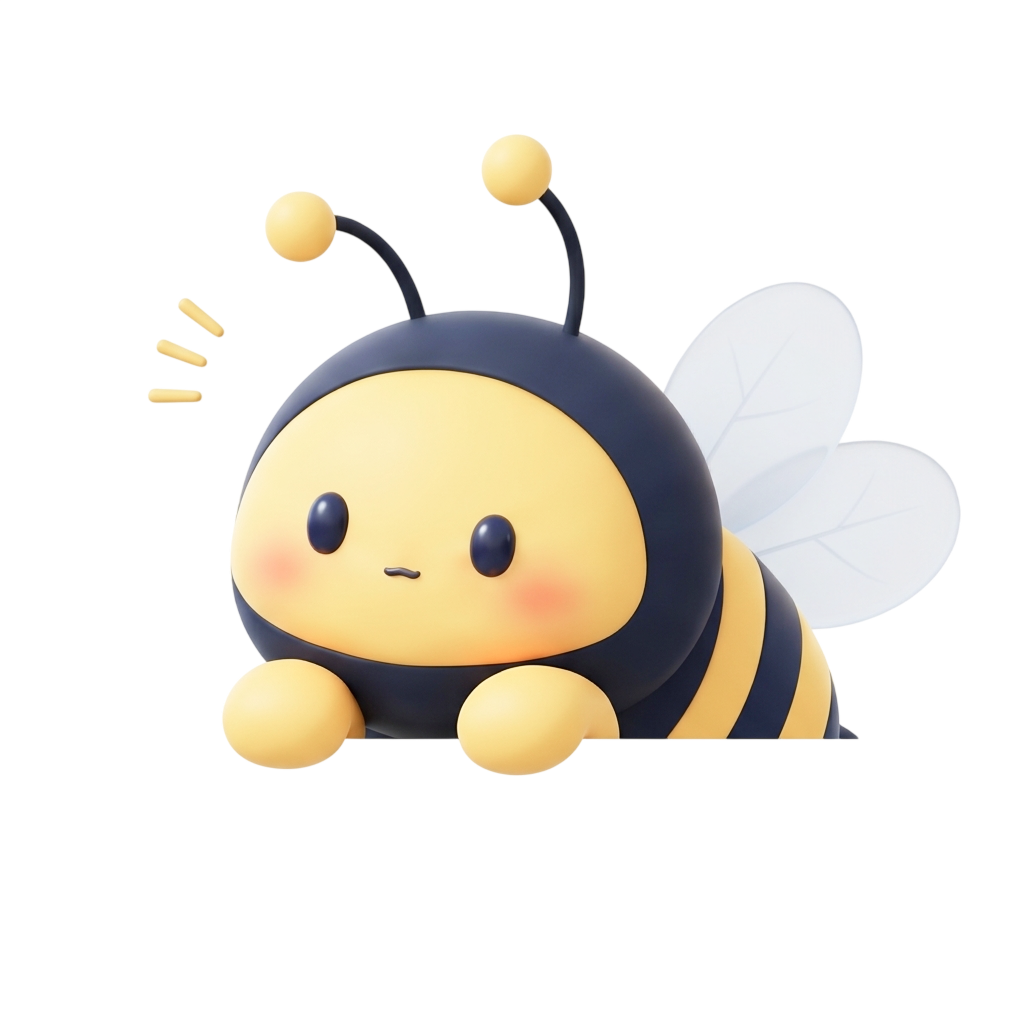
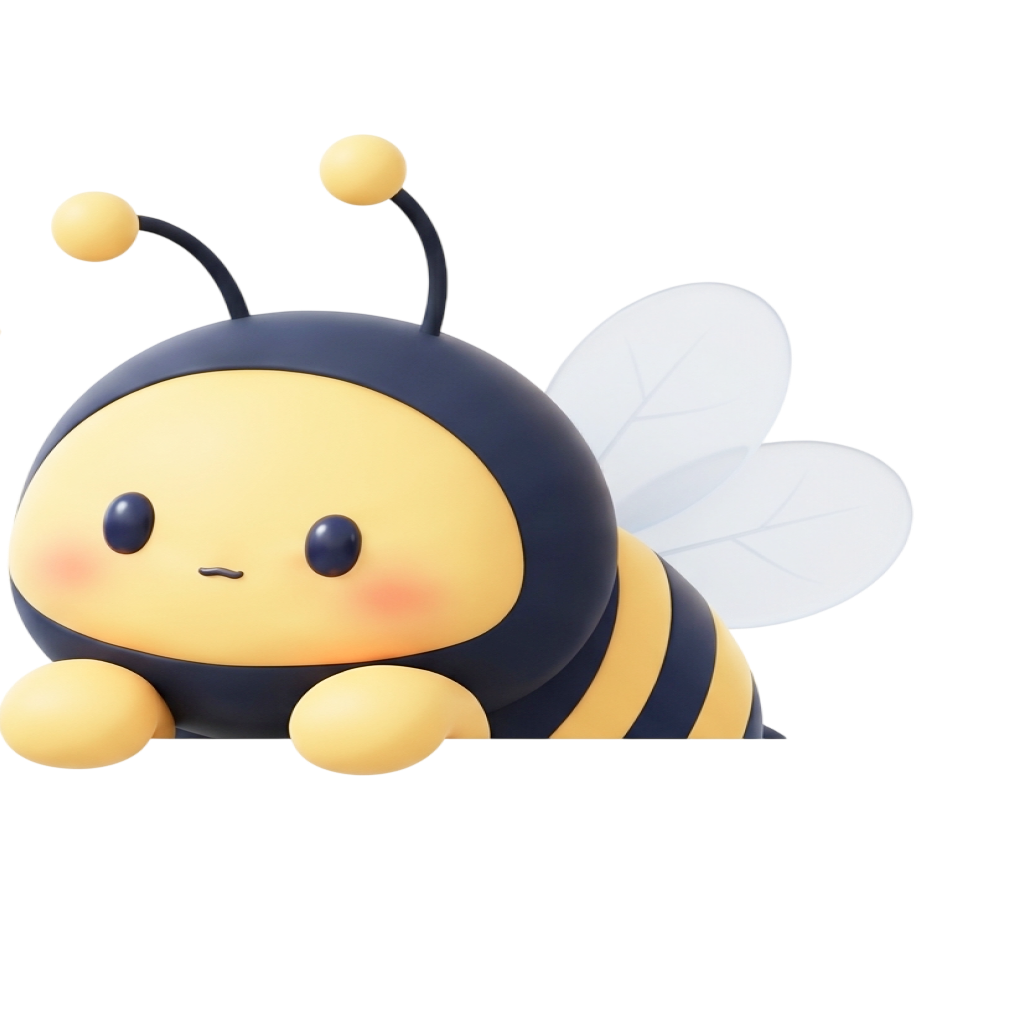
배너 수정

diff --git a/app/HomeBanner.module.css b/app/HomeBanner.module.css
@@ -1,52 +1,54 @@
-.banner{position:relative;isolation:isolate;overflow:hidden;background:linear-gradient(110deg,#1d3452,#203754 65%,#1b304c);color:#fff;border-radius:0;width:100%;margin:0;}
+.banner {
+  position:relative;
+  isolation:isolate;
+  height:333px;
+  overflow:hidden;
+  color:#fff;
+  background:linear-gradient(151.83deg,#172944 10.317%,#1e3556 53.968%,#30496d 89.683%);
+}
 .banner::before {
-  content: "";
-  position: absolute;
-  z-index: -1;
-  inset: auto -6% -18px;
-  height: clamp(155px, 25vw, 335px);
-  background: url("/images/home-banner-waves.png") center bottom / 100% 100% no-repeat;
-  opacity: .54;
-  pointer-events: none;
+  content:"";
+  position:absolute;
+  inset:0;
+  z-index:-1;
+  background:url("/images/home-banner-waves.svg") center / cover no-repeat;
 }
-.inner{max-width:1480px;margin:auto;padding:30px clamp(20px,2.2vw,32px) 32px;}
-.eyebrow{display:flex;align-items:center;gap:18px;font-size:15px;font-weight:600;}
-.eyebrow i{height:1px;background:#ffffff40;flex:1;}
-.eyebrow>span:last-child{color:#a5b3c6;}
-.content{display:grid;grid-template-columns:minmax(0,1.45fr) minmax(0,1.05fr) minmax(0,1fr);gap:38px;align-items:center;margin-top:30px;}
-.copy h1{margin:0;font-size:clamp(32px,3.2vw,46px);font-weight:700;line-height:1.2;letter-spacing:-1.4px;color:#fff;}
-.copy em{font-style:normal;color:#f6d98d;}
-.copy p{margin:14px 0 24px;font-size:19px;color:#bdcadd;letter-spacing:-.6px;}
-.cta{display:inline-flex;align-items:center;justify-content:center;gap:24px;padding:14px 30px;border-radius:40px;background:linear-gradient(110deg,#fff0bd,#ffe6a5);color:#111a28;font-size:18px;font-weight:700;min-height:50px;}
-.record{display:block;min-width:0;border:1px solid #94a6bd75;border-radius:22px;background:linear-gradient(120deg,#ffffff12,#ffffff05);box-shadow:inset 0 1px 1px #ffffff15;padding:22px 30px;color:#fff;}
-.record h2{display:flex;align-items:center;gap:12px;margin:0;font-size:21px;font-weight:600;}
-.count{display:flex;align-items:baseline;gap:5px;min-height:85px;margin-top:10px;}
-.count strong{font-size:64px;line-height:1.25;letter-spacing:-1px;font-variant-numeric:tabular-nums;}
-.count>span{font-size:30px;color:#b9c6d9;}
-.count .pending{font-size:24px;align-self:center;}
-.record small{display:block;font-size:11px;color:#b9c6d9;margin-bottom:10px;}
-.recordFooter{display:flex;justify-content:space-between;align-items:center;gap:12px;border-top:1px solid #ffffff40;padding-top:16px;font-size:17px;}
-.copy{grid-column:1;}
-.record{grid-column:2;}
-.mascot{position:absolute;right:0;bottom:0;width:clamp(210px,27vw,350px);height:26px;pointer-events:none;}
-.mascot img{position:absolute;z-index:1;width:100%;height:auto;right:calc(7px + clamp(18px, 3vw, 44px));bottom:calc(100% - 12px);transform:translateY(24%);}
-.ledge{position:absolute;inset:0 0 0 clamp(-56px,-4vw,-24px);border-radius:22px 0 0 0;background:linear-gradient(#fff3,#ffffff0d);border-top:2px solid #ffffff42;}
-.cta:hover{background:#ffdf92;}.record:hover{border-color:#bdcadd;background-color:#ffffff0a;}
-.cta:focus-visible,.record:focus-visible{outline:3px solid #f6d98d;outline-offset:5px;}
-@media(max-width:1000px){.inner{padding-block:26px 32px;}.content{grid-template-columns:minmax(0,1.2fr) minmax(0,1fr) minmax(150px,.8fr);gap:20px;}.copy h1{font-size:32px;}.copy p{font-size:15px;}.record{padding:20px;}.record h2{font-size:17px;}.recordFooter{font-size:14px;}.mascot{width:clamp(170px,23vw,230px);}.eyebrow{font-size:12px;}}
-@media(max-width:700px){.eyebrow>span:last-child{display:none;}.content{grid-template-columns:1fr;gap:26px;padding-bottom:126px;}.copy,.record{grid-column:1;}.copy h1{font-size:30px;}.copy p{max-width:220px;line-height:1.6;}.cta{font-size:15px;padding:12px 20px;gap:12px;}.record{position:relative;z-index:1;max-width:none;}.count{min-height:60px;}.count strong{font-size:48px;}.mascot{width:190px;}}
-@media(prefers-reduced-motion:reduce){.banner *{transition:none;}}
-
-.waveLetter{display:inline-block;animation:banner-wave 3.8s ease-in-out infinite;animation-delay:var(--wave-delay);}
-@keyframes banner-wave{0%,45%,100%{transform:translateY(0)}18%{transform:translateY(-9px)}32%{transform:translateY(3px)}}
-@media(prefers-reduced-motion:reduce){.waveLetter{animation:none;}}
-
-@media (prefers-reduced-motion: no-preference) {
-  .banner::before { animation: background-wave 13s ease-in-out infinite; }
+.copy {
+  position:relative;
+  z-index:2;
+  display:flex;
+  flex-direction:column;
+  align-items:flex-start;
+  gap:29px;
+  margin-left:max(24px,calc((100% - 1060px) / 2));
+  padding-top:50px;
+  width:max-content;
+  max-width:calc(100% - max(24px,calc((100% - 1060px) / 2)) - 24px);
 }
-
-@keyframes background-wave {
-  0%, 100% { transform: translate(0, 0); }
-  35% { transform: translate(-4%, -14px); }
-  70% { transform: translate(3%, -6px); }
+.accent { width:38px; height:3px; background:#efc57b; }
+.eyebrow { margin:0; height:10px; color:#b7cddf; font-size:15px; font-weight:500; line-height:normal; }
+.copy h1 { margin:0; color:#fff; font-size:clamp(28px,3.333vw,48px); font-weight:600; line-height:51px; letter-spacing:-.025em; }
+.description { margin:0; color:#dfe8f0; font-size:20px; line-height:normal; }
+.cta { display:inline-flex; align-items:center; justify-content:center; gap:14px; padding:12px 23px; border-radius:8px; background:linear-gradient(#fff5ce,#f8d990); color:#253d5a; font-size:15px; font-weight:600; line-height:normal; }
+.cta:hover { background:#f8d990; }
+.cta:focus-visible { outline:3px solid #fff5ce; outline-offset:4px; }
+.mascot { position:absolute; top:44px; right:0; bottom:24px; width:28.47%; overflow:hidden; }
+.mascot img { position:absolute; top:-58px; left:59px; width:347px; height:430px; max-width:none; object-fit:fill; }
+.ledge { position:absolute; right:0; bottom:0; width:26.74%; height:26px; background:url("/images/home-banner-ledge.svg") left bottom / cover no-repeat; }
+@media (max-width:1200px) {
+  .copy { gap:24px; max-width:72%; padding-top:42px; }
+  .copy h1 { max-width:100%; font-size:34px; line-height:1.25; }
+  .description { font-size:17px; }
+  .mascot img { left:0; }
+}
+@media (max-width:700px) {
+  .banner { height:420px; }
+  .copy { gap:20px; max-width:calc(100% - 48px); padding-top:30px; }
+  .eyebrow { font-size:12px; }
+  .copy h1 { max-width:100%; font-size:29px; line-height:1.35; }
+  .description { max-width:280px; font-size:15px; line-height:1.5; }
+  .cta { font-size:14px; padding:12px 16px; }
+  .mascot { top:auto; bottom:18px; width:170px; height:125px; }
+  .mascot img { top:-28px; left:0; width:170px; height:211px; }
+  .ledge { width:185px; height:18px; }
 }

diff --git a/app/HomeBanner.tsx b/app/HomeBanner.tsx
@@ -1,31 +1,21 @@
 import Image from "next/image";
 import Link from "next/link";
-import { ArrowRight, FileText } from "lucide-react";
 import styles from "./HomeBanner.module.css";
-import type { CSSProperties } from "react";
 
-function WaveText({ text, offset = 0 }: { text: string; offset?: number }) {
-  return <>{Array.from(text).map((letter, index) => <span key={index} className={styles.waveLetter} style={{ "--wave-delay": `${(offset + index) * 0.09}s` } as CSSProperties}>{letter === " " ? "\u00a0" : letter}</span>)}</>;
-}
-
-export default function HomeBanner({ tradeCount, failed = false }: { tradeCount?: number; failed?: boolean }) {
-  return <section className={styles.banner} aria-labelledby="home-banner-title">
-    <div className={styles.inner}>
-      <div className={styles.eyebrow}><span>TRACKIT / MY OVERVIEW</span><i aria-hidden="true"/><span>PERSONAL DASHBOARD</span></div>
-      <div className={styles.content}>
-        <div className={styles.copy}>
-          <h1 id="home-banner-title" aria-label="오늘의 기록이 내일의 전략으로."><span aria-hidden="true"><WaveText text="오늘의 기록이"/><br/><WaveText text="내일의 " offset={7}/><em><WaveText text="전략" offset={11}/></em><WaveText text="으로." offset={13}/></span></h1>
-          <p>나의 거래와 투자 기록을 확인해보세요.</p>
-          <Link className={styles.cta} href="/workshop">거래 기록 작성 <ArrowRight size={22} aria-hidden="true"/></Link>
-        </div>
-        <Link className={styles.record} href="#trading-log">
-          <h2><FileText size={26} aria-hidden="true"/> 나의 거래 기록</h2>
-          <div className={styles.count}>{tradeCount === undefined ? <span className={styles.pending}>{failed ? "확인 필요" : "불러오는 중"}</span> : <><strong>{tradeCount.toLocaleString("ko-KR")}</strong><span>건</span></>}</div>
-          <small>최근 1개월 기준 · 예시 데이터</small>
-          <div className={styles.recordFooter}><span>최근 거래를 확인하세요.</span><ArrowRight size={22} aria-hidden="true"/></div>
-        </Link>
-        <div className={styles.mascot} aria-hidden="true"><Image src="/images/home-bee.png" alt="" width={1024} height={1024} priority sizes="(max-width: 600px) 180px, (max-width: 1000px) 240px, 360px"/><div className={styles.ledge}/></div>
+export default function HomeBanner({ tradeCount: _tradeCount, failed: _failed }: { tradeCount?: number; failed?: boolean }) {
+  return (
+    <section className={styles.banner} aria-labelledby="home-banner-title">
+      <div className={styles.copy}>
+        <span className={styles.accent} aria-hidden="true" />
+        <p className={styles.eyebrow}>TRACKIT / TRADING JOURNEY</p>
+        <h1 id="home-banner-title">기록하고, 발견하고, 나만의 전략을 완성하다.</h1>
+        <p className={styles.description}>나의 투자 여정을 함께하는 트레이딩 플랫폼, TRAKIT.</p>
+        <Link className={styles.cta} href="/workshop">트레이딩 로그 보기 <span aria-hidden="true">→</span></Link>
       </div>
-    </div>
-  </section>;
+      <div className={styles.mascot} aria-hidden="true">
+        <Image src="/images/home-bee.png" alt="" width={347} height={430} priority sizes="347px" />
+      </div>
+      <div className={styles.ledge} aria-hidden="true" />
+    </section>
+  );
 }

diff --git a/app/globals.css b/app/globals.css
@@ -29,6 +29,16 @@
 .gnb-main a.active { color:#141414; font-weight:700; }
 .gnb-main a.active::after { display:none; }
 .gnb-account { height:auto; align-items:center; padding-bottom:0; border-bottom:0; }
+/* 메뉴의 시작점을 본문(.section-wrap)의 왼쪽 끝에 맞춘다. */
+@media (min-width:1400px) {
+  .gnb { padding-left:24px; grid-template-columns:calc((100vw - 1060px) / 2 - 24px) minmax(0,1fr) 240px; }
+  .gnb-main { justify-content:flex-start; }
+}
+@media (min-width:801px) and (max-width:1399px) {
+  .gnb { height:104px; grid-template-columns:minmax(0,1fr) auto; grid-template-rows:52px 52px; padding:0 max(24px,calc((100% - 1060px) / 2)); }
+  .gnb-main { grid-area:2 / 1 / 3 / -1; justify-content:flex-start; }
+  .gnb-account { grid-area:1 / 2; }
+}
 .gnb-chip { display:inline-flex; height:38px; max-width:220px; align-items:center; gap:8px; padding:0 16px 0 5px; border-radius:19px; background:#344d7d; color:#fff; font-size:14px; font-weight:700; text-decoration:none; white-space:nowrap; }
 .gnb-chip:hover { background:#2a3f68; }
 .gnb-chip:not(:has(.gnb-avatar)) { padding:0 20px; }
@@ -37,7 +47,7 @@
 .gnb-avatar-empty { display:grid; place-items:center; color:#344d7d; font-size:13px; font-weight:800; }
 .gnb-name { overflow:hidden; text-overflow:ellipsis; }
 @media (max-width:800px) {
-  .gnb { grid-template-columns:minmax(0,1fr) auto; grid-template-rows:42px minmax(0,1fr); padding:2px 16px; }
+  .gnb { grid-template-columns:minmax(0,1fr) auto; grid-template-rows:42px minmax(0,1fr); padding:2px 24px; }
   .gnb-main { grid-area:2 / 1 / 3 / -1; justify-content:space-between; gap:8px; padding-bottom:0; }
   .gnb-main a { font-size:13px; }
   .gnb-account { grid-area:1 / 2; justify-content:flex-end; }
